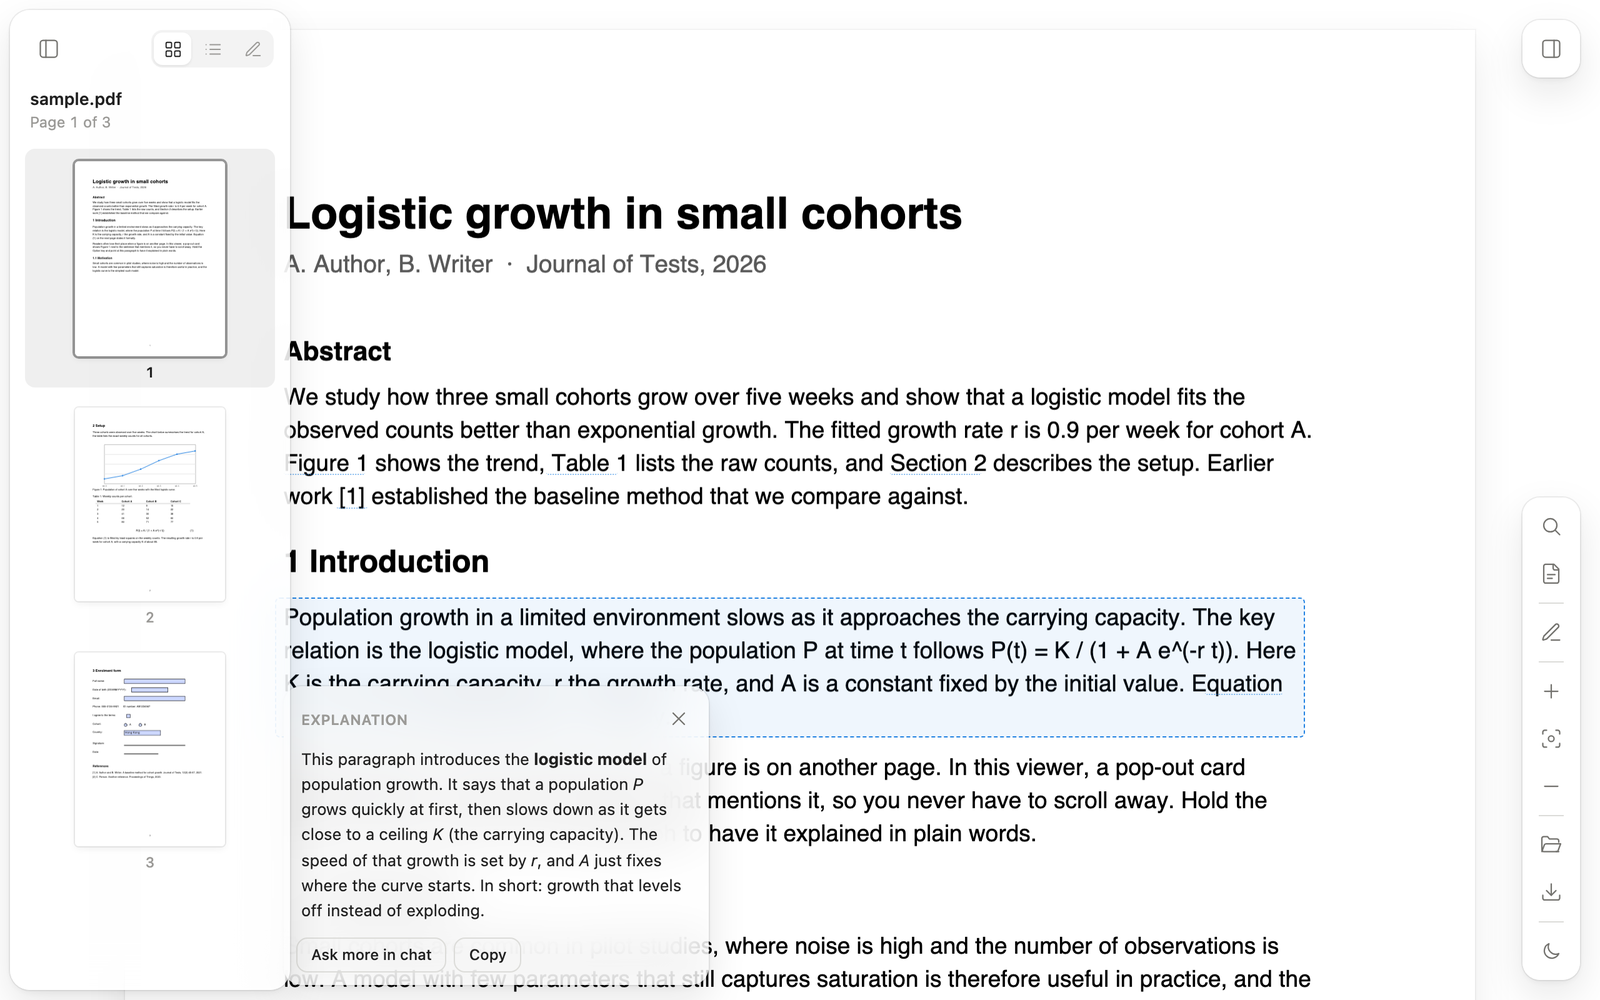
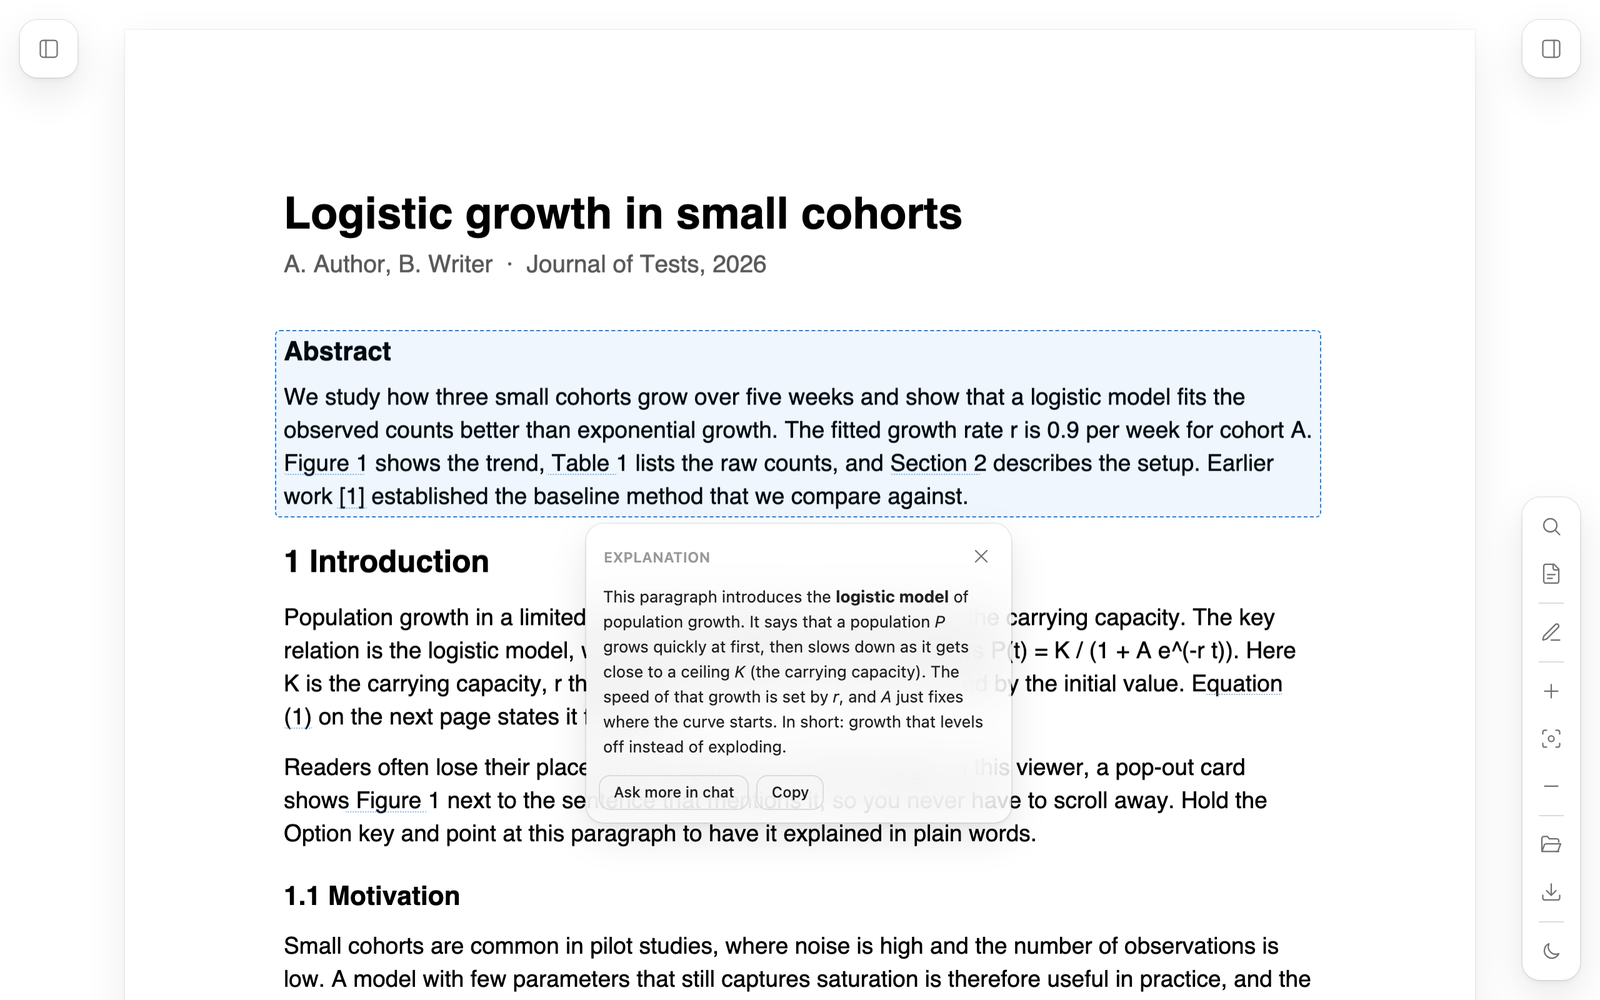
README: clean hero shot and a centred explain-bubble screenshot
Also centre the explain bubble under its region when there is no room beside it.

diff --git a/src/lens.js b/src/lens.js
@@ -214,7 +214,8 @@ export function createLens(host, { quickAsk, openChat }) {
       left = regionLeft - width - 12;
       top = regionTop;
     } else {
-      left = regionLeft;
+      // No room beside the region: sit under it, centred on it.
+      left = regionLeft + ((regionRight - regionLeft) - width) / 2;
       top = regionBottom + 12;
     }
     element.style.left = `${clamp(left, 12, Math.max(12, stage.width - width - 12))}px`;

diff --git a/README.md b/README.md
@@ -4,7 +4,7 @@ A calm PDF reader for Chrome with an AI that can read the page with you, explain
 
 No build step, no account. Bring a [DeepSeek](https://platform.deepseek.com) API key (or any OpenAI-compatible endpoint) and load the folder as an unpacked extension.
 
-![Hold Option and point at a paragraph to get it explained in a bubble](docs/screenshots/explain.png)
+![PaperLens reading a paper](docs/screenshots/hero.png)
 
 ## Why it's different
 
@@ -13,6 +13,8 @@ Most PDF tools with an AI bolt a chatbot onto the side. PaperLens puts the AI on
 ### Point at anything, get it explained
 
 Hold **⌥ Option** and move the pointer over a formula, chart, table or dense paragraph. The area lights up, and after a moment a small bubble explains just that part in plain words. It sends a crop of the region rather than the whole page, so it's fast and cheap. **Ask more in chat** carries the region into the conversation.
+
+![Hold Option and point at a paragraph to get it explained in a bubble](docs/screenshots/explain.png)
 
 ### References that pop out
 
